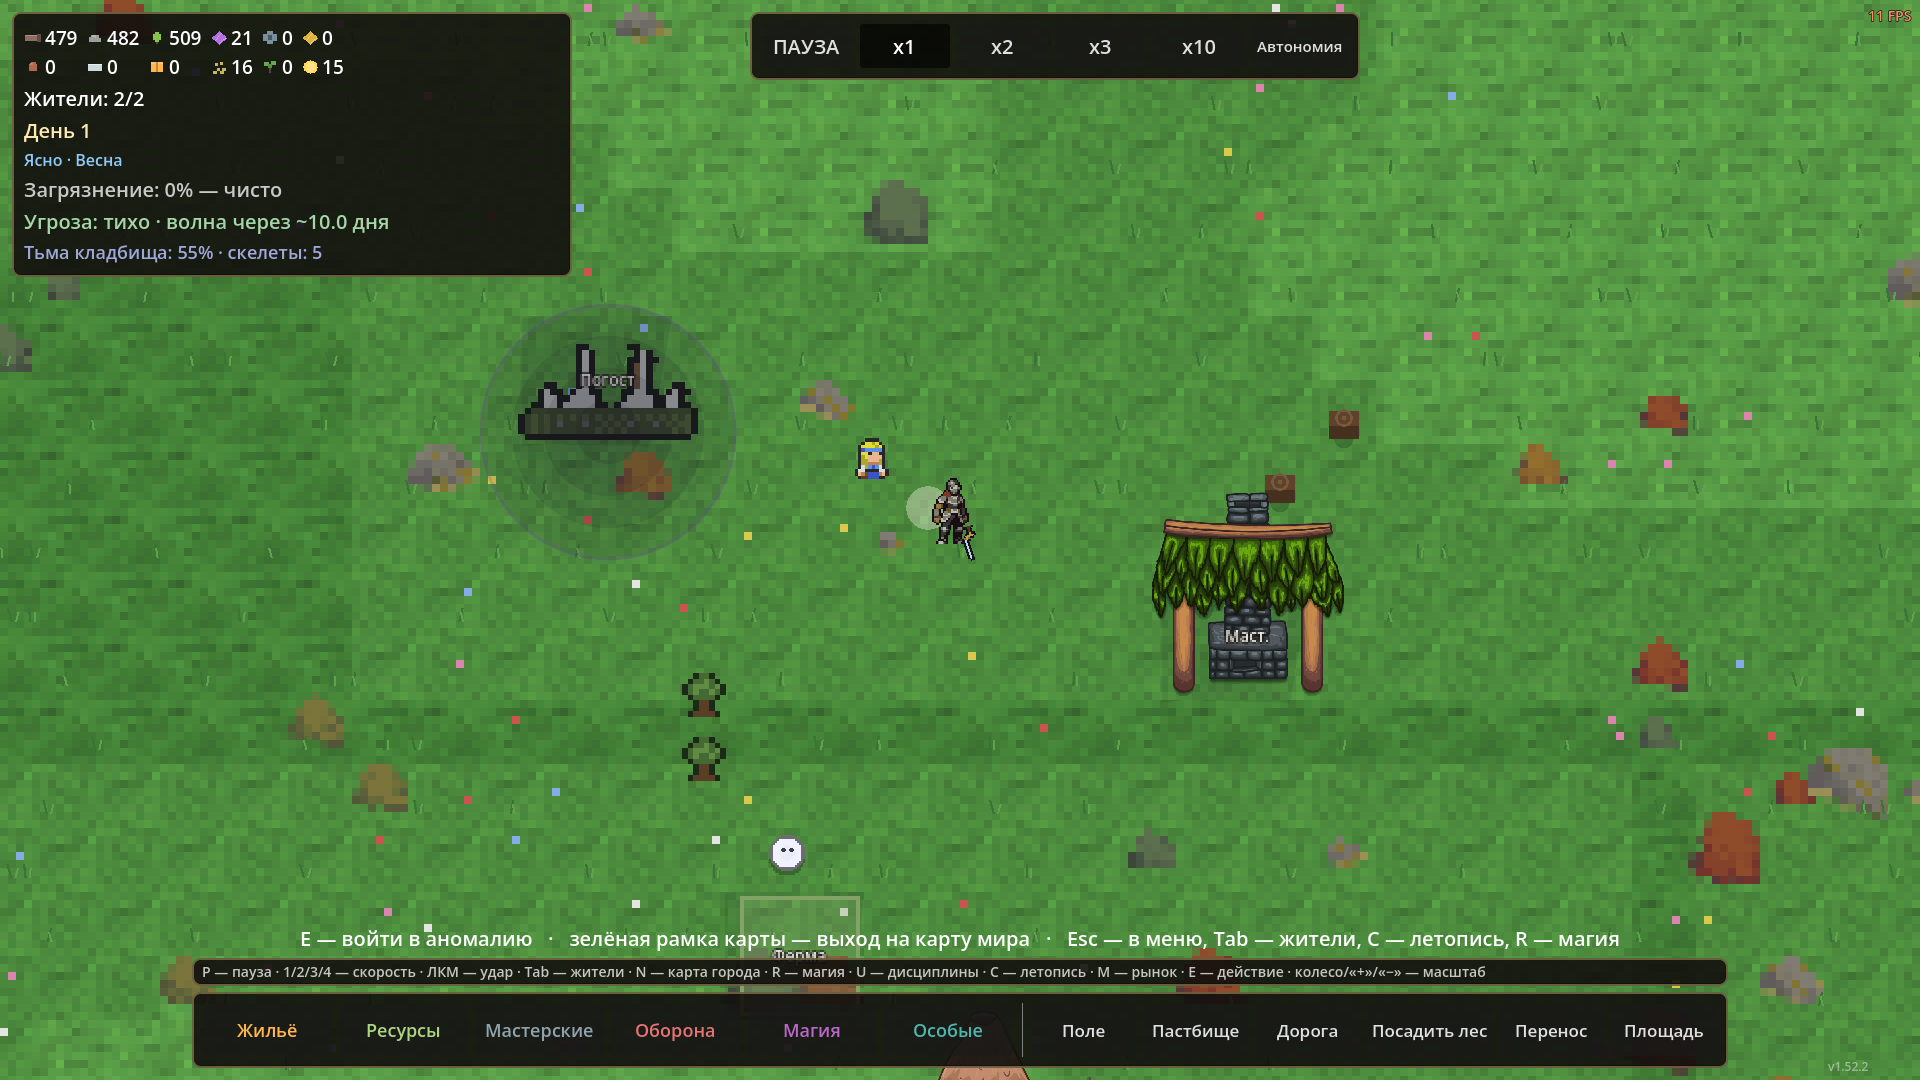
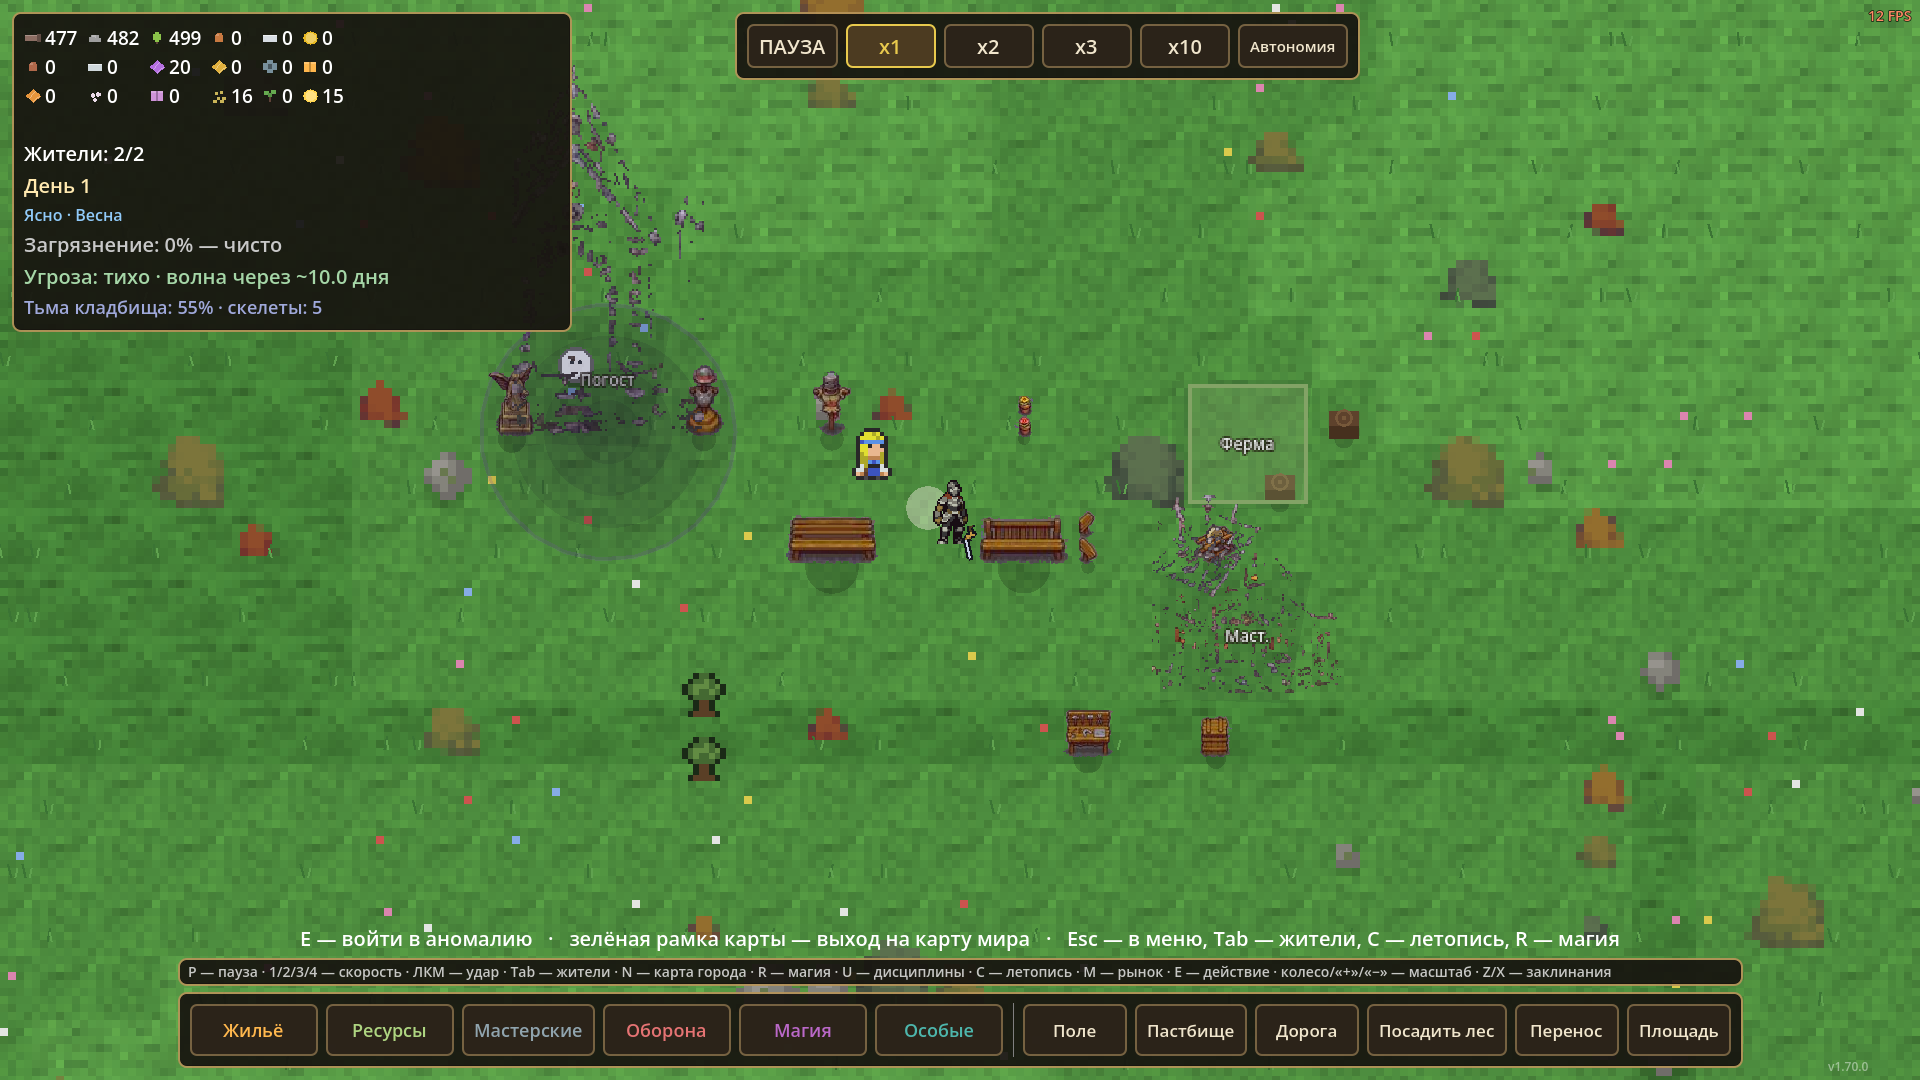
v1.71.0 «Жители кита»: builder/lumberjack/farmer из атласов заказчика
Конвертер slice_warrior_atlas.py: атласы 1254x1254 RGBA (анфас 7 кадров
в ряду) -> листы формата жителей (32px кадры, ряды стойка/шаг/работа).
Строитель (верстак), лесоруб (рубка топором), фермер (земля в присяде).
Остальные профессии — по мере поступления атласов, конвертеру нужна
только строка в ATLAS_FILES.

diff --git a/tools/slice_warrior_atlas.py b/tools/slice_warrior_atlas.py
@@ -1,0 +1,103 @@
+# -*- coding: utf-8 -*-
+"""Конвертер атласов жителей заказчика -> листы формата игры.
+
+Атласы (F:\\...\\новые ассеты\\*.png): 1254x1254 RGBA, левая половина —
+анфас (правая — вид сзади, в игре не используется: город зеркалит сам),
+7 кадров в ряду. Ряды разделяются пустыми полосами (автоопределение).
+
+Выход: assets/sprites/villagers/Kit<Имя>.png — кадры 32px, 10 колонок:
+ряд 0 — стойка (4 кадра), ряд 1 — ходьба (6), ряд 2 — работа (4).
+Ноги на y=30, видимый рост ~26px (единообразие персонажей v1.67.2).
+
+Профессии-выходы:
+  строитель-воин -> KitBuilder (работа: верстак) + KitLumberjack (рубка)
+  фермер         -> KitFarmer  (работа: землёй в присяде)
+"""
+import os
+from PIL import Image
+
+SRC_DIR = (r"F:\востановление кхорно юнитов\assets"
+           r"\ассеты домов\новые ассеты")
+OUT_DIR = os.path.join(os.path.dirname(os.path.abspath(__file__)), "..",
+                       "assets", "sprites", "villagers")
+
+FRAME = 32
+FEET_Y = 30.0
+TARGET_H = 26.0
+
+# файл -> индексы рядов (по порядку сверху вниз): стойка / шаг / работа /
+# доп. работа (для второй профессии из того же атласа)
+ATLAS_FILES = [
+    ("Пиксельный атлас строителя-воина.png", {"idle": 0, "walk": 1, "work": 2,
+                                              "work2": 3, "tag": "Builder",
+                                              "tag2": "Lumberjack"}),
+    ("Пиксельный фермер_ полный набор анимаций.png", {"idle": 0, "walk": 1,
+                                                      "work": 5, "tag": "Farmer"}),
+]
+
+
+def slice_frames(img, y0, y1, n):
+    w = img.size[0]
+    strip_w = w // 2          # анфас — левая половина
+    fw = strip_w / 7.0        # 7 кадров в ряду
+    frames = []
+    for i in range(n):
+        fr = img.crop((int(i * fw), y0, int((i + 1) * fw), y1))
+        bbox = fr.getbbox()
+        if bbox:
+            fr = fr.crop(bbox)
+        frames.append(fr)
+    return frames
+
+
+def fit_frame(fr):
+    w, h = fr.size
+    sc = TARGET_H / float(h)
+    nw, nh = max(1, int(round(w * sc))), max(1, int(round(h * sc)))
+    fr2 = fr.resize((nw, nh), Image.LANCZOS)
+    canvas = Image.new("RGBA", (FRAME, FRAME), (0, 0, 0, 0))
+    canvas.paste(fr2, ((FRAME - nw) // 2, int(round(FEET_Y - nh))), fr2)
+    return canvas
+
+
+def row_bands(img):
+    import numpy as np
+    a = np.array(img.getchannel("A"))
+    rows = (a > 8).sum(axis=1)
+    filled = [y for y in range(len(rows)) if rows[y] > 0]
+    bands = []
+    s0 = prev = filled[0]
+    for y in filled[1:]:
+        if y != prev + 1:
+            bands.append((s0, prev))
+            s0 = y
+        prev = y
+    bands.append((s0, prev))
+    return bands
+
+
+def build_sheet(img, bands, rows_spec, name):
+    sheet = Image.new("RGBA", (FRAME * 10, FRAME * 4), (0, 0, 0, 0))
+    for row_idx, out_row, n in rows_spec:
+        y0, y1 = bands[row_idx]
+        for i, fr in enumerate(slice_frames(img, y0, y1, n)):
+            sheet.paste(fit_frame(fr), (i * FRAME, out_row * FRAME))
+    path = os.path.join(OUT_DIR, name)
+    sheet.save(path)
+    print(name, sheet.size)
+
+
+def main():
+    for fname, r in ATLAS_FILES:
+        img = Image.open(os.path.join(SRC_DIR, fname)).convert("RGBA")
+        bands = row_bands(img)
+        common = [(r["idle"], 0, 4), (r["walk"], 1, 6), (r["work"], 2, 4)]
+        build_sheet(img, bands, common, "Kit%s.png" % r["tag"])
+        if "work2" in r:
+            build_sheet(img, bands, [
+                (r["idle"], 0, 4), (r["walk"], 1, 6), (r["work2"], 2, 4)],
+                "Kit%s.png" % r["tag2"])
+
+
+if __name__ == "__main__":
+    main()

diff --git a/CHANGELOG_E2.md b/CHANGELOG_E2.md
@@ -13,6 +13,23 @@
 > «Как устроено сейчас» — дизайн-доки `docs/design/<модуль>.md`.
 > По разделам удобно искать: `grep -n "^## " CHANGELOG_E2.md`.
 
+## v1.71.0 — «Жители кита»: атласы заказчика в игре (2026-11-14)
+
+Заказчик рисует покадровые атласы жителей в ChatGPT (RGBA, 1254x1254,
+левая половина — анфас, 7 кадров в ряду, ряды разделяются пустыми
+полосами). Формат принят как образец; конвертер
+tools/slice_warrior_atlas.py (автоопределение рядов, вписывание в кадры
+32px, ноги на y=30, рост 26px — единообразие с v1.67.2):
+
+- «строитель-воин» -> KitBuilder (верстак) + KitLumberjack (рубка топором)
+- «фермер, полный набор анимаций» -> KitFarmer (землёй в присяде)
+
+Профессии builder/lumberjack/farmer переведены с Minifolks на кит
+(остальные 14 — по мере поступления атласов; конвертеру нужен только
+новый файл в «новые ассеты» + строка в ATLAS_FILES).
+
+Тесты: OK (порог осады 37.9 мс — известный машинный флейк, в CI зелёный).
+
 ## v1.70.0 — «Мосты и глубина»: ИИ мутантов и жителей (2026-11-14)
 
 Приёмка: «пропали мутанты», «проход через воду только по мостам, монстры

diff --git a/README.md b/README.md
@@ -1,4 +1,4 @@
-# Пепел и Мана — v1.70.0
+# Пепел и Мана — v1.71.0
 
 [![Тесты](https://github.com/SDVGames-Studio/pepel-i-mana/actions/workflows/tests.yml/badge.svg)](https://github.com/SDVGames-Studio/pepel-i-mana/actions/workflows/tests.yml)
 
